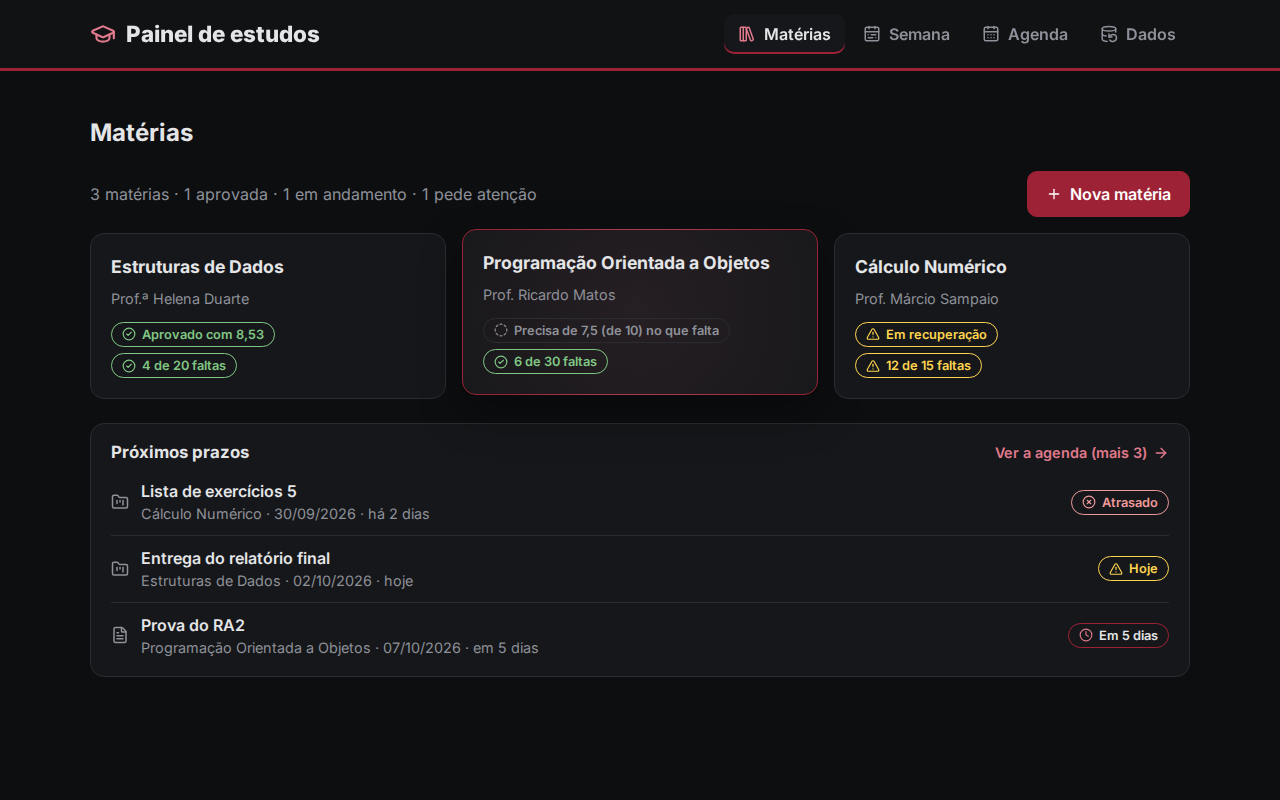
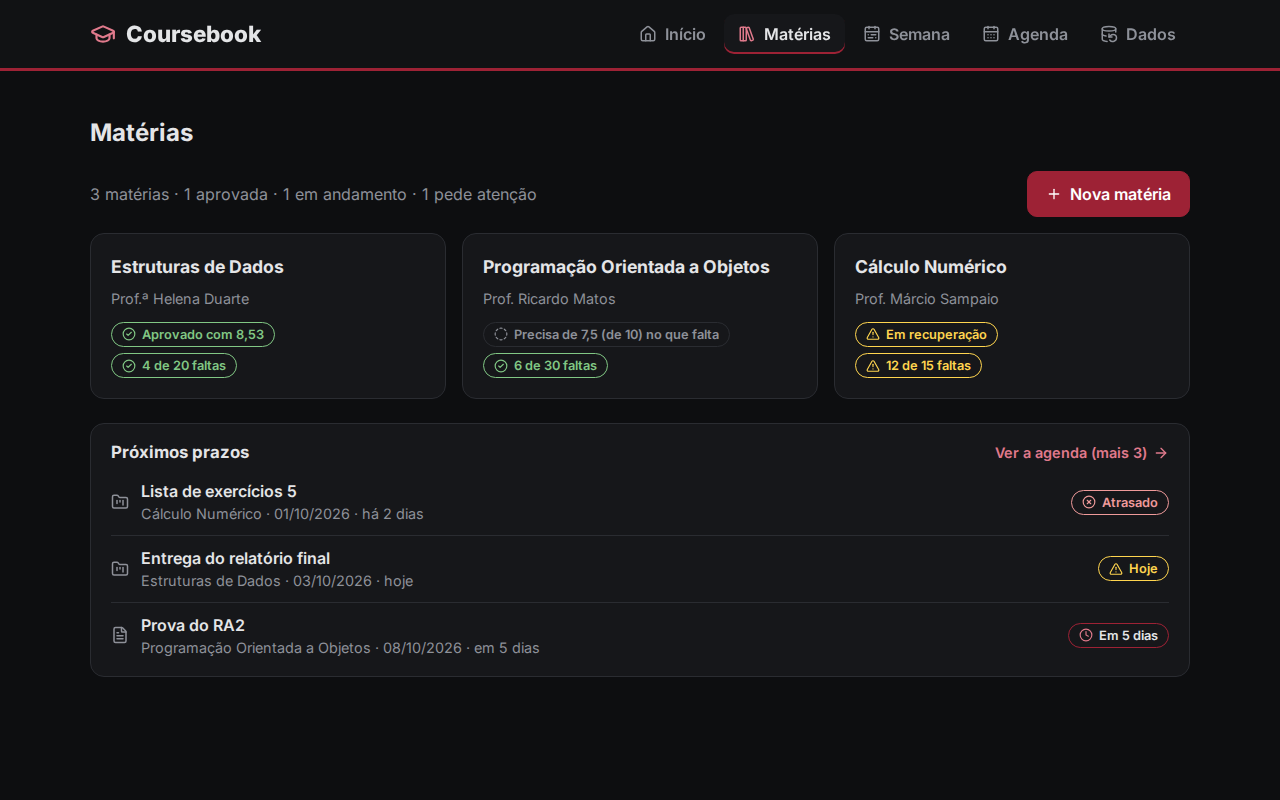
Refaz os prints do README com o lobby e o nome Coursebook

diff --git a/README.md b/README.md
@@ -16,11 +16,13 @@ mostra como ele fica em uso).
 
 ## Demonstração
 
+![Página de entrada do Coursebook, com o nome, os destaques e o botão Começar sobre faixas de desenhos de cadernos, calendários e grades](docs/lobby.png)
+
 ![Lista de matérias com o resumo do semestre, a situação de cada uma e os próximos prazos](docs/materias.png)
 
 ![Tela de uma matéria: notas por RA, faltas, pontos extras e regra](docs/materia.png)
 
-![Grade da semana com os horários de todas as matérias e o dia de hoje marcado](docs/semana.png)
+![Grade da semana com os horários de todas as matérias, o dia de hoje e a aula de agora marcados](docs/semana.png)
 
 <p>
   <img src="docs/agenda.png" alt="Agenda com provas atrasadas, de hoje e chegando" width="64%">
